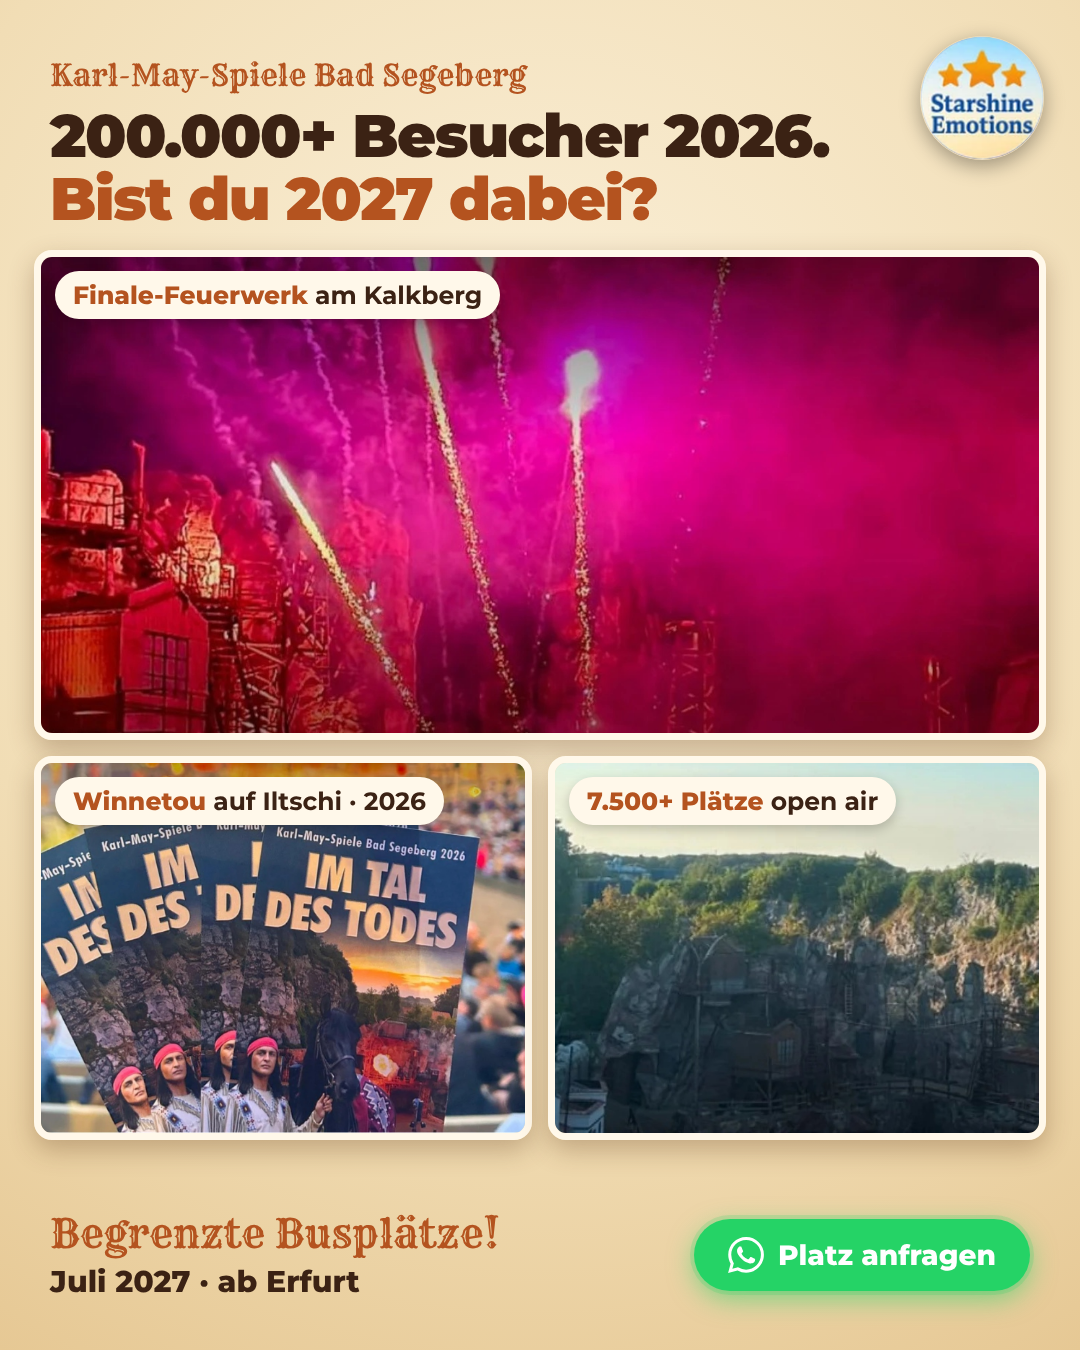
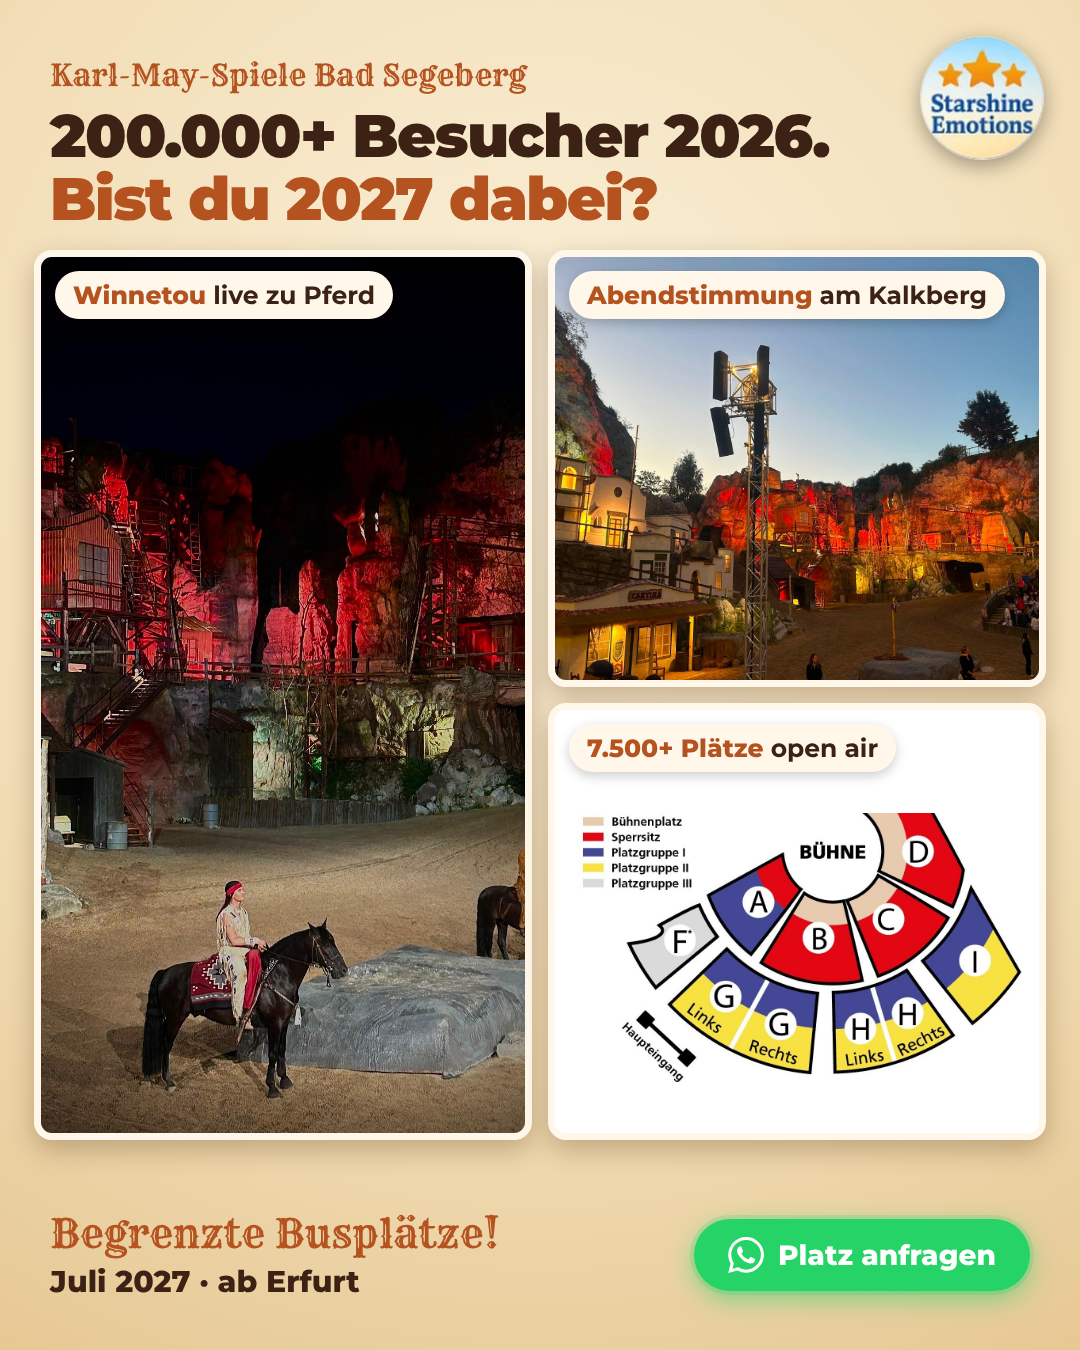
Post 01: new collage with show, arena and seating plan photos
Claude-Session: https://claude.ai/code/session_01MYsT5PUrxmX4pbkuNXz2ag

diff --git a/creatives/organic/01-kulisse.html b/creatives/organic/01-kulisse.html
@@ -4,10 +4,10 @@
 .k{font-family:Rye,serif;font-size:30px;color:#B4531F}
 .h{font-weight:900;font-size:60px;line-height:1.05;letter-spacing:-1.5px;margin-top:10px}
 .h em{font-style:normal;color:#B4531F}
-.grid{position:absolute;left:34px;right:34px;top:250px;height:890px;display:grid;grid-template-columns:1fr 1fr;grid-template-rows:490px 1fr;gap:16px}
+.grid{position:absolute;left:34px;right:34px;top:250px;height:890px;display:grid;grid-template-columns:1fr 1fr;grid-template-rows:1fr 1fr;gap:16px}
 .c{position:relative;border-radius:18px;overflow:hidden;border:7px solid #FFF8EA;box-shadow:0 10px 26px rgba(90,50,20,.3)}
 .c img{width:100%;height:100%;object-fit:cover;display:block}
-.c.big{grid-column:1 / 3}
+.c.big{grid-row:1 / 3}.c.plan{background:#fff}.c.plan img{object-fit:contain;padding:70px 16px 14px}
 .c span{position:absolute;left:14px;top:14px;background:#FFF8EA;color:#3B2214;font-weight:700;font-size:25px;padding:9px 18px;border-radius:24px;box-shadow:0 4px 12px rgba(0,0,0,.2)}
 .c span b{color:#B4531F;font-weight:800}
 .foot{position:absolute;left:50px;right:50px;bottom:50px;display:flex;align-items:center;justify-content:space-between}
@@ -18,9 +18,10 @@
 <img class="logo" src="logo-starshine.png">
 <div class="top"><div class="k">Karl-May-Spiele Bad Segeberg</div><div class="h">200.000+ Besucher 2026.<br><em>Bist du 2027 dabei?</em></div></div>
 <div class="grid">
- <div class="c big"><img src="km-feuerwerk.jpg" style="object-position:30% 55%"><span><b>Finale-Feuerwerk</b> am Kalkberg</span></div>
- <div class="c"><img src="km-flyer.jpg" style="object-position:72% 70%"><span><b>Winnetou</b> auf Iltschi · 2026</span></div>
- <div class="c"><img src="km-kulisse-sets.jpg" style="object-position:40% 60%"><span><b>7.500+ Plätze</b> open air</span></div>
+ <div class="c big"><img src="km-reiter.jpg" style="object-position:40% 75%"><span><b>Winnetou</b> live zu Pferd</span></div>
+ <div class="c"><img src="km-arena.jpg" style="object-position:50% 60%"><span><b>Abendstimmung</b> am Kalkberg</span></div>
+ <div class="c plan"><img src="km-sitzplan.jpg"><span><b>7.500+ Plätze</b> open air</span></div>
+</div>
 </div>
 <div class="foot"><div class="info"><span class="lim">Begrenzte Busplätze!</span>Juli 2027 · ab Erfurt</div><div class="cta"><svg width="36" height="36" viewBox="0 0 24 24"><path fill="#fff" d="M17.472 14.382c-.297-.149-1.758-.867-2.03-.967-.273-.099-.471-.148-.67.15-.197.297-.767.966-.94 1.164-.173.199-.347.223-.644.075-.297-.15-1.255-.463-2.39-1.475-.883-.788-1.48-1.761-1.653-2.059-.173-.297-.018-.458.13-.606.134-.133.298-.347.446-.52.149-.174.198-.298.298-.497.099-.198.05-.371-.025-.52-.075-.149-.669-1.612-.916-2.207-.242-.579-.487-.5-.669-.51-.173-.008-.371-.01-.57-.01-.198 0-.52.074-.792.372-.272.297-1.04 1.016-1.04 2.479 0 1.462 1.065 2.875 1.213 3.074.149.198 2.096 3.2 5.077 4.487.709.306 1.262.489 1.694.625.712.227 1.36.195 1.871.118.571-.085 1.758-.719 2.006-1.413.248-.694.248-1.289.173-1.413-.074-.124-.272-.198-.57-.347m-5.421 7.403h-.004a9.87 9.87 0 01-5.031-1.378l-.361-.214-3.741.982.998-3.648-.235-.374a9.86 9.86 0 01-1.51-5.26c.001-5.45 4.436-9.884 9.888-9.884 2.64 0 5.122 1.03 6.988 2.898a9.825 9.825 0 012.893 6.994c-.003 5.45-4.437 9.884-9.885 9.884m8.413-18.297A11.815 11.815 0 0012.05 0C5.495 0 .16 5.335.157 11.892c0 2.096.547 4.142 1.588 5.945L.057 24l6.305-1.654a11.882 11.882 0 005.683 1.448h.005c6.554 0 11.89-5.335 11.893-11.893a11.821 11.821 0 00-3.48-8.413Z"/></svg>Platz anfragen</div></div>
 </div></body></html>

diff --git a/creatives/organic/captions.md b/creatives/organic/captions.md
@@ -9,8 +9,8 @@ Format 4:5 (1080×1350) · Reihenfolge = Posting-Reihenfolge · 2 Posts/Woche (z
 
 Das erwartet dich bei den Karl-May-Spielen in Bad Segeberg:
 🏜 Eine der größten Freilichtbühnen Europas – über 7.500 Plätze direkt am Kalkberg
-🐎 2026 ritt Winnetou auf Iltschi in „Im Tal des Todes“ – wir sind gespannt aufs neue Stück 2027
-🎆 Und zum Schluss: das große Finale-Feuerwerk über der Bühne
+🐎 Winnetou live zu Pferd – mitten in der Westernkulisse
+🌅 Abendstimmung am Kalkberg, wenn die Felsen rot leuchten
 
 Im Juli 2027 fahren wir mit dem Bus ab Erfurt hin. ⚠ Die Busplätze sind begrenzt!
 👉 Schreib uns „DABEI“ und wir schicken dir alle Infos.
